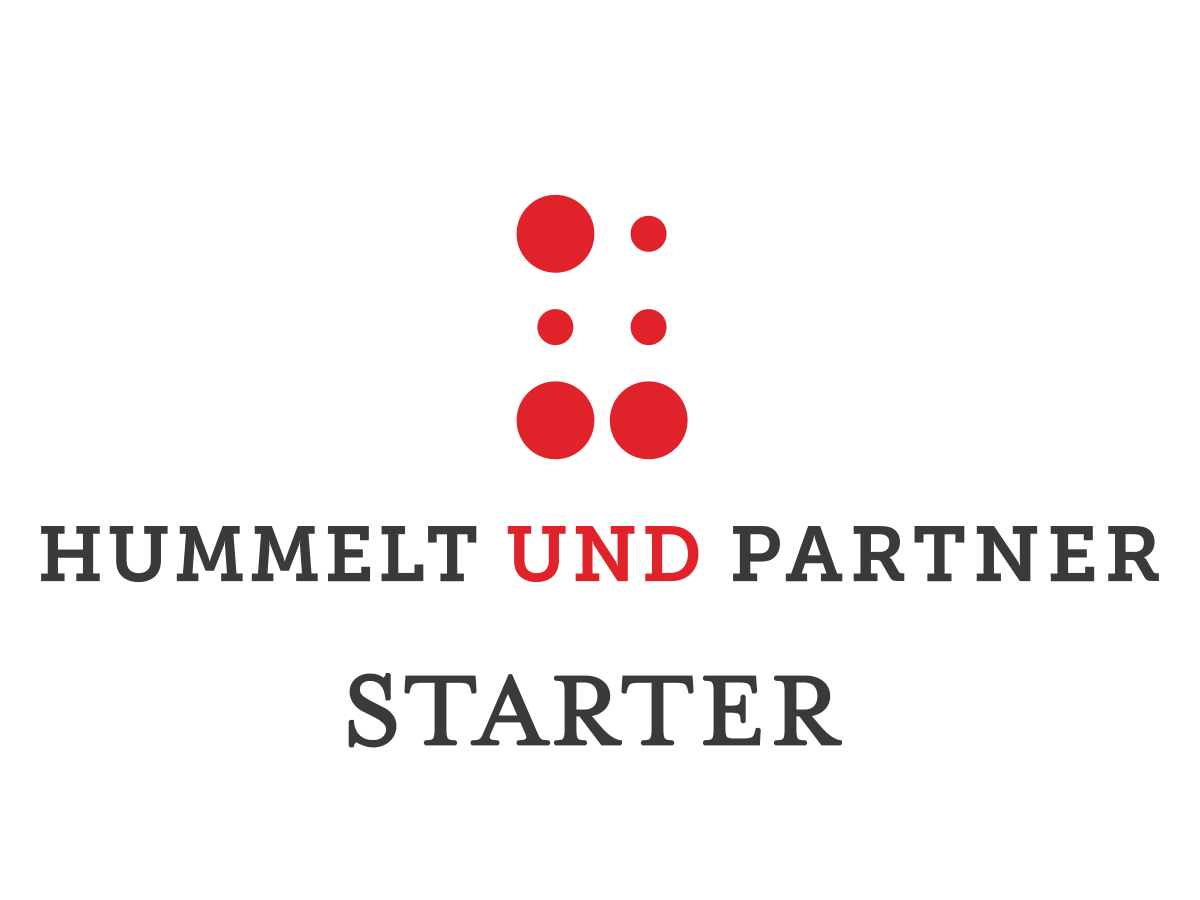
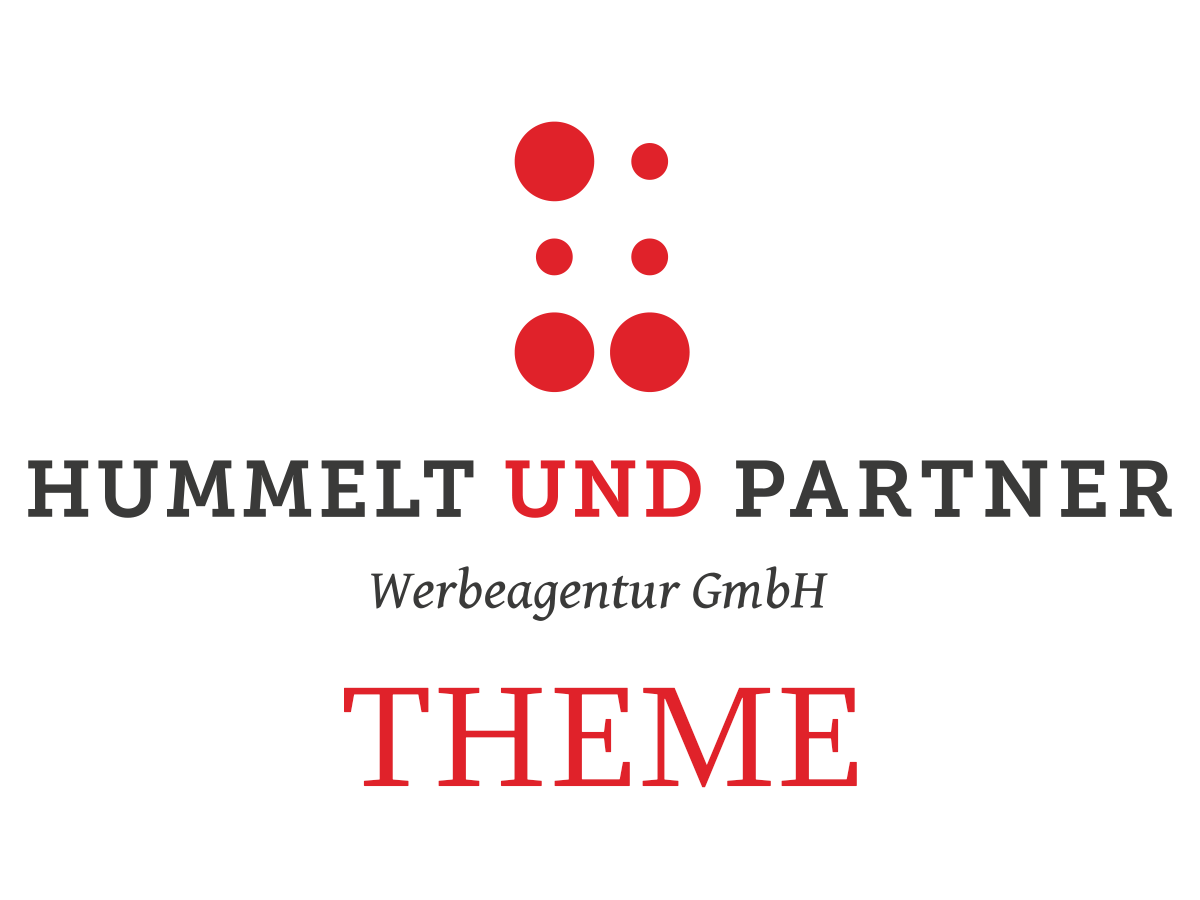
fix: #6 update readme und screenshot

diff --git a/style.css b/style.css
@@ -6,7 +6,7 @@ Author URI: https://www.hummelt-werbeagentur.de/
 Description: Ein leistungsstarkes WordPress Theme mit WooCommerce Unterstützung von <a href ="https://www.hummelt-werbeagentur.de/">Hummelt & Partner</a>. Das Theme hat eine große Auswahl an Kategorie-, Seiten-, Beitrags-, Autoren- und Archivvorlagen sowie Sidebar-, Header-, Footer- und 404-Widgets.
 Version: v1.0.1
 Text Domain: bootscore
-Tags: hupa-starter, translation-ready, WooCommerce-ready
+Tags: hupa-theme, translation-ready, WooCommerce-ready
 Requires PHP: 8.0
 Tested up to: 5.7.2
 */

diff --git a/README.md b/README.md
@@ -1,9 +1,10 @@
-# Hupa Starter
-Hummelt & Partner 
+# HUPA Theme
+hummelt und partner | Werbeagentur GmbH
 
-![Hupa Starter](https://img.shields.io/badge/Hupa%20Starter%20Theme-v1.0.1-brightgreen.svg)
+![release](https://img.shields.io/github/v/release/team-hummelt/hupa-starter)
 ![Hupa Release](https://img.shields.io/github/release-date/team-hummelt/hupa-starter)
-![Hupa License](https://img.shields.io/github/license/team-hummelt/hupa-starter.svg)
+![GitHub](https://img.shields.io/github/license/team-hummelt/hupa-starter)
+
 
 ### \#1.0.2
 * GoogleMaps Fehler behoben 
@@ -14,6 +15,6 @@ Hummelt & Partner
 * fixed Installations Fehler
 
 ### \#1.0.0
-* Hupa-Starter release. Included basic plugin features.
+* Hupa-Theme release. Included basic plugin features.
 
 
